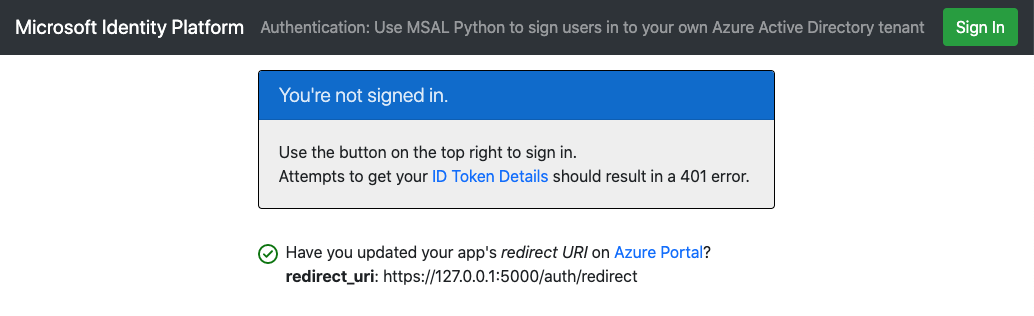
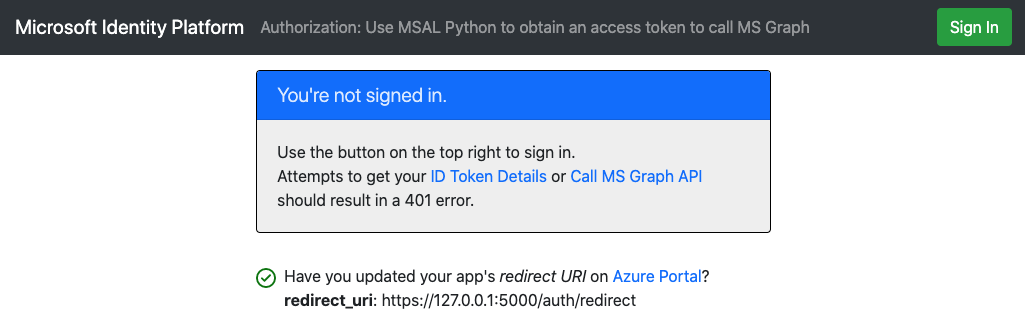
partial 2.1 call graph
call graph updates

diff --git a/my_tenant/templates/my_tenant/auth/call-graph.html b/my_tenant/templates/my_tenant/auth/call-graph.html
@@ -1,0 +1,26 @@
+{% extends '../content.html' %}
+
+{% block header %}
+    Call Graph - Get Users in Tenant
+{% endblock %}
+
+{% block text %}
+    {% if results and 'value' in results  %}
+        There are a total of <strong>{{ results.num_results }}</strong> users in your tenant. Showing
+        <strong>displayName</strong> and <strong>ID</strong> for up to 5 of them below.
+        <br>
+        <br>
+        {% for result in results.value %}
+            {% if 'displayName' in result %}
+                <strong>{{ loop.index }}.</strong> {{ result.displayName }}
+            {% endif %}
+            {% if 'id' in result %}
+                <span style="float:right">{{ result.id }}</span>
+            {% endif %}
+            <br><br>
+        {% endfor %}
+    {% endif %}
+    <br>
+    Click here to see your <a class="btn btn-info p-1" href="{% url 'index' %}">Sign-in Status</a>
+    or <a class="btn btn-info p-1" href="{% url 'token_details' %}">ID Token Details</a>
+{% endblock %}

diff --git a/my_tenant/templates/my_tenant/auth/status.html b/my_tenant/templates/my_tenant/auth/status.html
@@ -13,8 +13,10 @@
 {% block text %}
     {% if request.identity_context_data.authenticated %}
         Click here to get your <a class="btn btn-info p-1" href="{% url 'token_details' %}">ID Token Details</a>
+        or <a class="btn btn-info p-1" href="{% url 'call_ms_graph' %}">Call MS Graph API</a>
     {% else %}
         Use the button on the top right to sign in. <br/>
-        Attempts to get your <a href="{% url 'token_details' %}">ID Token Details</a> should result in a 401 error.
+        Attempts to get your <a href="{% url 'token_details' %}">ID Token Details</a>
+        or <a href="{% url 'call_ms_graph' %}">Call MS Graph API</a> should result in a 401 error.
     {% endif %}
 {% endblock %}

diff --git a/my_tenant/templates/my_tenant/auth/token.html b/my_tenant/templates/my_tenant/auth/token.html
@@ -11,6 +11,7 @@
     {% endfor %}
     <br>
     Click here to see your <a class="btn btn-info p-1" href="{% url 'index' %}">Sign-in Status</a>
+    or <a class="btn btn-info p-1" href="{% url 'call_ms_graph' %}">Call MS Graph API</a>
 {% endblock %}
 
     

diff --git a/Authentication/views.py b/Authentication/views.py
@@ -2,6 +2,8 @@ from django.shortcuts import render, redirect
 from django.urls import reverse
 from my_tenant.msal_middleware import ms_identity_web
 from django import template
+import requests
+
 register = template.Library()
 
 def index(request):
@@ -10,3 +12,17 @@ def index(request):
 @ms_identity_web.login_required
 def token_details(request):
     return render(request, 'my_tenant/auth/token.html')
+
+@ms_identity_web.login_required
+def call_ms_graph(request):
+    ms_identity_web.acquire_token_silently()
+    graph = 'https://graph.microsoft.com/v1.0/users'
+    authZ = f'Bearer {ms_identity_web.id_data._access_token}'
+    results = requests.get(graph, headers={'Authorization': authZ}).json()
+
+    # trim the results down to 5 and format them.
+    if 'value' in results:
+        results ['num_results'] = len(results['value'])
+        results['value'] = results['value'][:5]
+
+    return render(request, 'my_tenant/auth/call-graph.html', context=dict(results=results))

diff --git a/Authentication/urls.py b/Authentication/urls.py
@@ -23,5 +23,6 @@ urlpatterns = [
     path('', views.index, name='index'),
     path('sign_in_status', views.index, name='status'),
     path('token_details', views.token_details, name='token_details'),
+    path('call_ms_graph', views.call_ms_graph, name='call_ms_graph'),
     path(f'{config.django.auth_endpoints.prefix}/', include('my_tenant.urls')),
 ]

diff --git a/README.md b/README.md
@@ -12,9 +12,9 @@ name: Enable your Python Django webapp to sign in users to your Azure Active Dir
 urlFragment: ms-identity-python-django-webapp-authentication
 description: "This sample demonstrates a Python Django webapp that signs in users to your Azure AD tenant with the Microsoft identity platform"
 ---
-# Enable your Python Django webapp to sign in users to your Azure Active Directory tenant with the Microsoft identity platform
+# Enable your Python Django webapp to sign in users and call Microsoft Graph with the Microsoft identity platform
 
-- [Enable your Python Django webapp to sign in users to your Azure Active Directory tenant with the Microsoft identity platform](#enable-your-python-django-webapp-to-sign-in-users-to-your-azure-active-directory-tenant-with-the-microsoft-identity-platform)
+- [Enable your Python Django webapp to sign in users and call Microsoft Graph with the Microsoft identity platform](#enable-your-python-django-webapp-to-sign-in-users-and-call-microsoft-graph-with-the-microsoft-identity-platform)
   - [Overview](#overview)
   - [Scenario](#scenario)
   - [Contents](#contents)
@@ -24,30 +24,31 @@ description: "This sample demonstrates a Python Django webapp that signs in user
     - [Step 2: Install project dependencies](#step-2-install-project-dependencies)
   - [Register the sample application(s) with your Azure Active Directory tenant](#register-the-sample-applications-with-your-azure-active-directory-tenant)
     - [Choose the Azure AD tenant where you want to create your applications](#choose-the-azure-ad-tenant-where-you-want-to-create-your-applications)
-    - [Register the webapp (python-django-webapp-auth-my-tenant)](#register-the-webapp-python-django-webapp-auth-my-tenant)
-    - [Configure the webapp (python-django-webapp-auth-my-tenant) to use your app registration](#configure-the-webapp-python-django-webapp-auth-my-tenant-to-use-your-app-registration)
+    - [Register the webapp (python-django-webapp-call-graph)](#register-the-webapp-python-django-webapp-call-graph)
+    - [Configure the webapp (python-django-webapp-call-graph) to use your app registration](#configure-the-webapp-python-django-webapp-call-graph-to-use-your-app-registration)
   - [Running the sample](#running-the-sample)
-  - [Explore the sample](#explore-the-sample)
   - [We'd love your feedback!](#wed-love-your-feedback)
+  - [Explore the sample](#explore-the-sample)
   - [About the code](#about-the-code)
+    - [Calling MS Graph](#calling-ms-graph)
+    - [Scopes](#scopes)
     - [Under the hood](#under-the-hood)
-  - [Next Steps or Deploy to Azure](#next-steps-or-deploy-to-azure)
+  - [Deploy to Azure](#deploy-to-azure)
+  - [More information](#more-information)
   - [Community Help and Support](#community-help-and-support)
   - [Contributing](#contributing)
   - [Code of Conduct](#code-of-conduct)
-  - [More information](#more-information)
 
 ## Overview
 
-This sample demonstrates a Python Django web app that signs in users to your Azure Active Directory tenant using the [Microsoft Authentication Library (MSAL) for Python](https://github.com/AzureAD/microsoft-authentication-library-for-python).
+This sample demonstrates a Python Django web app that signs in users and obtains an access token for calling [Microsoft Graph](https://docs.microsoft.com/graph/overview). It uses the [Microsoft Authentication Library \(MSAL\) for Python](https://github.com/AzureAD/microsoft-authentication-library-for-python).
 
 ![Overview](./ReadmeFiles/topology.png)
 
 ## Scenario
 
-1. This Web application uses the **MSAL for Python** to sign in users to their own Azure AD tenant and obtains an [ID Token](https://docs.microsoft.com/azure/active-directory/develop/id-tokens) from **Azure AD**.
-1. The **ID Token** proves that a user has successfully authenticated with this tenant.
-1. The web application protects one of its routes according to user's authentication status.
+1. This Web application uses **MSAL for Python** to sign-in a user and obtains an [Access Token](https://docs.microsoft.com/azure/active-directory/develop/access-tokens) for [Microsoft Graph](https://docs.microsoft.com/graph/overview) from **Azure AD**:
+2. The **Access Token** proves that the user is authorized to access the Microsoft Graph API endpoint as defined in the scope.
 
 ## Contents
 
@@ -73,7 +74,7 @@ This sample demonstrates a Python Django web app that signs in users to your Azu
 From your shell or command line:
 
 ```Shell
-git clone https://github.com/Azure-Samples/ms-identity-python-django-webapp-authentication.git
+git clone https://github.com/Azure-Samples/ms-identity-python-django-webapp-call-graph.git
 ```
 
 or download and extract the repository .zip file.
@@ -87,7 +88,7 @@ or download and extract the repository .zip file.
 - In Linux/OSX via the terminal:
 
 ```Shell
-  cd <project-root-directory> # the folder into which you cloned the code
+  cd <project-root-directory> #the folder into which you cloned the code
   python3 -m venv venv # only required if you don't have a venv already
   source venv/bin/activate
   pip install -r requirements.txt
@@ -135,6 +136,9 @@ There is one project in this sample. To register the app on the portal, you can:
 
 </details>
 
+<details>
+  <summary>Expand this section if you want to manually register and configure the application in the Azure portal.</summary>
+
 ### Choose the Azure AD tenant where you want to create your applications
 
 As a first step you'll need to:
@@ -142,12 +146,12 @@ As a first step you'll need to:
 1. Sign in to the [Azure portal](https://portal.azure.com).
 1. If your account is present in more than one Azure AD tenant, select your profile at the top right corner in the menu on top of the page, and then **switch directory** to change your portal session to the desired Azure AD tenant.
 
-### Register the webapp (python-django-webapp-auth-my-tenant)
+### Register the webapp (python-django-webapp-call-graph)
 
 1. Navigate to the Microsoft identity platform for developers [App registrations](https://go.microsoft.com/fwlink/?linkid=2083908) page.
 1. Select **New registration**.
 1. In the **Register an application page** that appears, enter your application's registration information:
-   - In the **Name** section, enter a meaningful application name that will be displayed to users of the app, for example `python-django-webapp-auth-my-tenant`.
+   - In the **Name** section, enter a meaningful application name that will be displayed to users of the app, for example `python-django-webapp-call-graph`.
    - Under **Supported account types**, select **Accounts in this organizational directory only**.
    - In the **Redirect URI (optional)** section, select **Web** in the combo-box and enter the following redirect URI: `http://localhost:8000/auth/redirect`.
 1. Select **Register** to create the application.
@@ -162,7 +166,7 @@ As a first step you'll need to:
    - The generated key value will be displayed when you click the **Add** button. Copy the generated value for use in the steps later.
    - You'll need this key later in your code's configuration files. This key value will not be displayed again, and is not retrievable by any other means, so make sure to note it from the Azure portal before navigating to any other screen or blade.
 
-### Configure the webapp (python-django-webapp-auth-my-tenant) to use your app registration
+### Configure the webapp (python-django-webapp-call-graph) to use your app registration
 
 Open the project in your IDE to configure the code.
 
@@ -170,18 +174,19 @@ Open the project in your IDE to configure the code.
 
 1. Open the `aad.config.json` file
 1. Find the string `{enter-your-tenant-id-here}` and replace the existing value with your Azure AD tenant ID.
-1. Find the string `{enter-your-client-id-here}` and replace the existing value with the application ID (clientId) of the `python-django-webapp-auth-my-tenant` application copied from the Azure portal.
-1. Find the string `{enter-your-client-secret-here}` and replace the existing value with the key you saved during the creation of the `python-django-webapp-auth-my-tenant` app, in the Azure portal.
+1. Find the string `{enter-your-client-id-here}` and replace the existing value with the application ID (clientId) of the `python-django-webapp-call-graph` application copied from the Azure portal.
+1. Find the string `{enter-your-client-secret-here}` and replace the existing value with the key you saved during the creation of the `python-django-webapp-call-graph` app, in the Azure portal.
 
 </details>
 
 ## Running the sample
 
 - To run the sample, open a terminal window. Navigate to the root of the project. Be sure your virtual environment with dependencies is activated ([Prerequisites](#prerequisites)).
-- Or in Linux/OSX via terminal with ad-hoc certs:
+- On Linux/OSX via the terminal:
 
   ```Shell
     # start from the folder in which the sample is cloned into
+    python manage.py migrate
     python manage.py runserver
   ```
 
@@ -189,15 +194,17 @@ Open the project in your IDE to configure the code.
 
   ```PowerShell
     # start from the folder in which the sample is cloned into
+    python manage.py migrate
     python manage.py runserver
   ```
 
-- Alternatively, you may use `python -m django run` instead of `django run`
-- Navigate to [http://localhost:8000](http://localhost:8000) in your browser.
-
-> You might run into an invalid certificate error on your browser as we are using self-signed certificates for `https`. If you do, you can ignore that error while running this sample locally.
+- Navigate to [http://localhost:8000](http://localhost:8000) in your browser
 
 ![Experience](./ReadmeFiles/app.png)
+
+## We'd love your feedback!
+
+Were we successful in addressing your learning objective? Consider taking a moment to [share your experience with us](https://forms.office.com/Pages/ResponsePage.aspx?id=v4j5cvGGr0GRqy180BHbR73pcsbpbxNJuZCMKN0lURpUM0dYSFlIMzdHT0o3NlRNVFpJSzcwRVMxRyQlQCN0PWcu).
 
 ## Explore the sample
 
@@ -206,24 +213,21 @@ Open the project in your IDE to configure the code.
 - Follow the instructions on the next page to sign in with an account in the Azure AD tenant.
 - Note the context-sensitive button now says `Sign out` and displays your username to its left.
 - The middle of the screen now has an option to click for **ID Token Details**: click it to see some of the ID token's decoded claims.
+- Click the **Call Graph** button to make a call to MS Graph API's [/users](https://docs.microsoft.comgraph/api/user-list) endpoint and fetch the details of up to 5 users in your tenant.
 - You can also use the button on the top right to sign out.
 - After signing out, click the link to `ID Token Details` to observe that the app displays a `401: unauthorized` error instead of the ID token claims when the user is not authorized.
 
 > :information_source: Did the sample not work for you as expected? Did you encounter issues trying this sample? Then please reach out to us using the [GitHub Issues](../issues) page.
 
-## We'd love your feedback!
-
-Were we successful in addressing your learning objective? Consider taking a moment to [share your experience with us](https://forms.office.com/Pages/ResponsePage.aspx?id=v4j5cvGGr0GRqy180BHbR73pcsbpbxNJuZCMKN0lURpUM0dYSFlIMzdHT0o3NlRNVFpJSzcwRVMxRyQlQCN0PWcu).
-
 ## About the code
 
-This sample uses the [Microsoft Authentication Library \(MSAL\) for Python](https://github.com/AzureAD/microsoft-authentication-library-for-python) to sign in users within your Azure AD tenant. It leverages the IdentityWebPython class found in the [Microsoft Identity Python Samples Common](https://github.com/azure-samples/ms-identity-python-samples-common) repository to allow for quick app setup.
+This sample uses the [Microsoft Authentication Library \(MSAL\) for Python](https://github.com/AzureAD/microsoft-authentication-library-for-python) to sign in a user and obtain a token for MS Graph API. It leverages the IdentityWebPython class found in the [Microsoft Identity Python Samples Common](https://github.com/azure-samples/ms-identity-python-samples-common) repository to allow for quick app setup.
 
-In `my_tenant/msal_middleware.py`'s `MsalMiddleware` class:
+In `my_tenant/msal_middleware`'s `MsalMiddleware` class:
 
 1. A configuration object is parsed from [aad.config.json](./aad.config.json)
-1. A DjangoAdapter is instantiated for interfacing with the Django app
-1. The DjangoAdapter and an Azure AD configuration object are used to instantiate **IdentityWebPython**.
+2. A DjangoAdapter is instantiated for interfacing with the Django app
+3. The DjangoAdapter and an Azure AD configuration object are used to instantiate **IdentityWebPython**
 
     ```python
     aad_configuration = AADConfig.parse_json('aad.config.json')
@@ -234,15 +238,45 @@ In `my_tenant/msal_middleware.py`'s `MsalMiddleware` class:
     ```
 
 - These three lines of code automatically hook up all necessary endpoints for the authentication process into your Django app under a route prefix (`/auth` by default). For example, the redirect endpoint is found at `/auth/redirect`.
-- When a user navigates to `/auth/sign_in` and completes a sign-in attempt, the resulting identity data is put into the session, which can be accessed through the django global **g** object at `g.identity_context_data`.
+- When a user navigates to `/auth/sign_in` and completes a sign-in attempt, the resulting identity data is put into the session, which can be accessed through the request object at `request.identity_context_data`.
 - When an endpoint is decorated with `@ms_identity_web.login_required`, the application only allows requests to the endpoint from authenticated (signed-in) users. If the user is not signed-in, a `401: unauthorized` error is thrown, and the browser is redirected to the 401 handler.
 
     ```python
-    @app.route('/a_protected_route')
     @ms_identity_web.login_required
     def a_protected_route():
       return "if you can see this, you're signed in!"
     ```
+
+### Calling MS Graph
+
+When a user navigates to the `/call_ms_graph` endpoint, the following code is executed:
+
+```python
+def call_ms_graph():
+    ms_identity_web.acquire_token_silently()
+    graph = 'https://graph.microsoft.com/v1.0/users'
+    authZ = f'Bearer {ms_identity_web.id_data._access_token}'
+    results = requests.get(graph, headers={'Authorization': authZ}).json()
+    return render_template('auth/call-graph.html', results=results)
+```
+
+1. `ms_identity_web.acquire_token_silently()` method leverages MSAL for Python to perform a *silent token acquisition* and stores the result in the session, also accessible via  `ms_identity_web.id_data` or `request.identity_context_data`
+
+   1. A silent token acquisition either finds a valid `access_token` with the required scopes in the token cache or uses a stored `refresh_token` to get a new `access_token` from Azure AD.
+
+   1. The scopes herein are defined in the [aad.config.json](./aad.config.json) file, but can be overridden by passing a `scopes=["x","y"]` param to the `ms_identity_web.acquire_token_silently()` method.
+
+2. The app then makes a request to the graph endpoint defined in (by default, `https://graph.microsoft.com/v1.0/users`). The request has an Authorization header that carries the user's `access_token` in the format `Bearer access_token_value_here`.
+3. The response is sent to the template for rendering.
+
+### Scopes
+
+- [Scopes](https://docs.microsoft.com/en-us/azure/active-directory/develop/v2-permissions-and-consent) tell Azure AD the level of access that the application is requesting.
+- Based on the requested scopes, Azure AD presents a consent dialogue to the user upon signing in.
+- If the user consents to one or more scopes and obtains a token, the scopes-consented-to are encoded into the resulting `access_token`.
+- Note the scope requested by the application by referring to [aad.config.json](./aad.config.json). By default, this array is set to `["User.ReadBasic.All"]`.
+- This particular MS Graph API scope is for accessing the basic information of all user accounts in the user's tenant. The graph endpoint for accessing this info is `https://graph.microsoft.com/v1.0/users`
+- Any valid requests made to this endpoint must bear an `access_token` containing scope `User.ReadBasic.All` in the Authorization header.
 
 ### Under the hood
 
@@ -277,9 +311,20 @@ At a minimum, following parameters need to be provided to the MSAL for Python li
 
 1. If the request is successful, MSAL for Python validates the signature and nonce of the incoming token. If these checks succeed, it returns the resulting `id_token`, `access_token` and plaintext `id_token_claims` in a dictionary. *It is the application's responsibility to store these tokens securely.*
 
-## Next Steps or Deploy to Azure
+## Deploy to Azure
 
-As next steps, we can now either [get an Access Token for the users we signed-in in this tutorial](https://github.com/Azure-Samples/ms-identity-python-django-webapp-call-graph), or we can proceed [to deploy this app to the **Azure App Service**](https://github.com/Azure-Samples/ms-identity-python-django-deployment).
+Follow [this guide](https://github.com/Azure-Samples/ms-identity-python-django-deployment) to deploy this app to **Azure App Service**.
+
+## More information
+
+- [Microsoft Authentication Library \(MSAL\) for Python](https://github.com/AzureAD/microsoft-authentication-library-for-python)
+- [MSAL Python ReadTheDocs](https://msal-python.readthedocs.io/en/latest/)
+- [Microsoft identity platform (Azure Active Directory for developers)](https://docs.microsoft.com/azure/active-directory/develop/)
+- [Quickstart: Register an application with the Microsoft identity platform (Preview)](https://docs.microsoft.com/azure/active-directory/develop/quickstart-register-app)
+
+- [Understanding Azure AD application consent experiences](https://docs.microsoft.com/azure/active-directory/develop/application-consent-experience)
+- [Understand user and admin consent](https://docs.microsoft.com/azure/active-directory/develop/howto-convert-app-to-be-multi-tenant#understand-user-and-admin-consent)
+- [MSAL code samples](https://docs.microsoft.com/azure/active-directory/develop/sample-v2-code)
 
 ## Community Help and Support
 
@@ -298,14 +343,3 @@ This project welcomes contributions and suggestions. Most contributions require 
 ## Code of Conduct
 
 This project has adopted the Microsoft Open Source Code of Conduct. For more information see the Code of Conduct FAQ or contact opencode@microsoft.com with any additional questions or comments.
-
-## More information
-
-- [Microsoft Authentication Library \(MSAL\) for Python](https://github.com/AzureAD/microsoft-authentication-library-for-python)
-- [MSAL Python ReadTheDocs](https://msal-python.readthedocs.io/en/latest/)
-- [Microsoft identity platform (Azure Active Directory for developers)](https://docs.microsoft.com/azure/active-directory/develop/)
-- [Quickstart: Register an application with the Microsoft identity platform (Preview)](https://docs.microsoft.com/azure/active-directory/develop/quickstart-register-app)
-
-- [Understanding Azure AD application consent experiences](https://docs.microsoft.com/azure/active-directory/develop/application-consent-experience)
-- [Understand user and admin consent](https://docs.microsoft.com/azure/active-directory/develop/howto-convert-app-to-be-multi-tenant#understand-user-and-admin-consent)
-- [MSAL code samples](https://docs.microsoft.com/azure/active-directory/develop/sample-v2-code)
